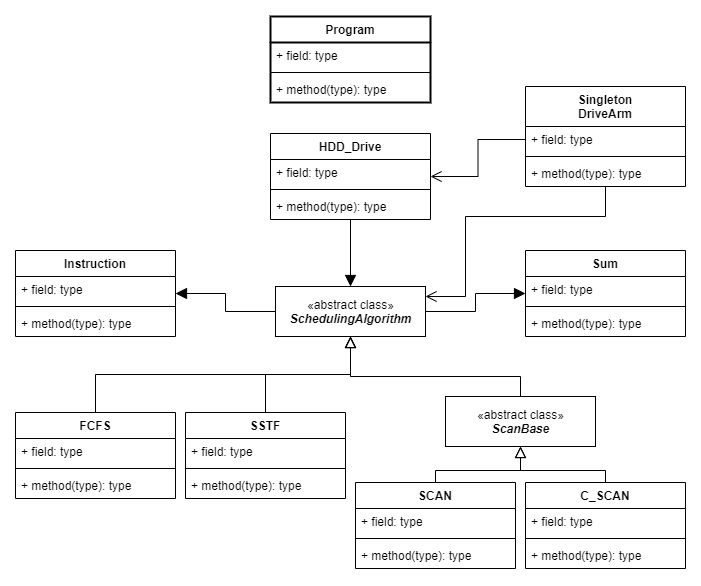
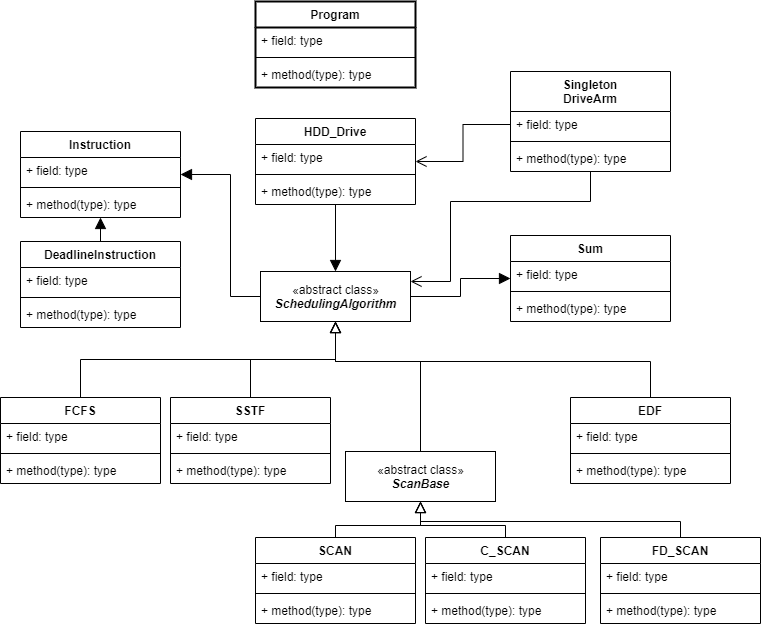
Very bad implementation of additional scheduling algorithms

diff --git a/Sem2/SystemyOperacyjne/SO_2_HDD_DriveSimulator/Program.cs b/Sem2/SystemyOperacyjne/SO_2_HDD_DriveSimulator/Program.cs
@@ -24,6 +24,8 @@ namespace SO_2_HDD_DriveSimulator
             // Create the first instruciton sequence
             List<List<Instruction>> instrSeq = createInstrucitonSequence();
 
+            Console.WriteLine("\t{ { { {  WITHOUT DEADLINES  } } } }");
+            Console.WriteLine();
             
             runDrive(new HDD_Drive(new FCFS()),
                 getInstructionSequenceCopy(instrSeq),
@@ -43,6 +45,18 @@ namespace SO_2_HDD_DriveSimulator
             runDrive(new HDD_Drive(new C_SCAN()),
                 getInstructionSequenceCopy(instrSeq),
                 "Drive 4 - C-SCAN");
+
+            // With deadlines
+            Console.WriteLine("\t{ { { {  WITH DEADLINES  } } } }");
+            Console.WriteLine();
+
+            runDrivePlus(new HDD_Drive(new EDF()),
+                getInstructionSequenceCopy(instrSeq),
+                "Drive 5 - EDF");
+
+            runDrivePlus(new HDD_Drive(new FD_SCAN()),
+                getInstructionSequenceCopy(instrSeq),
+                "Drive 6 - FD-SCAN");
         }
 
 
@@ -59,7 +73,14 @@ namespace SO_2_HDD_DriveSimulator
                 int amtOfInstructionsInList = random.Next(10, 40);
 
                 for (int j = 0; j < amtOfInstructionsInList; j++)
-                    newList.Add(new Instruction()); // add new read instruction with the random address
+                {
+                    if (random.Next(1, 10) == 2) // 10% are tasks with deadlines
+                        // add new read instruction with random address and with deadline
+                        newList.Add(new DeadlineInstruction(random.Next(0, 100)));
+                    else
+                        // add new read instruction with the random address
+                        newList.Add(new Instruction());
+                }
             }
 
             return generatedSeq;
@@ -68,7 +89,7 @@ namespace SO_2_HDD_DriveSimulator
 
         static void runDrive(HDD_Drive hdd_drive, List<List<Instruction>> instrSeq, string text)
         {
-            Console.WriteLine("   >>>>><    " + text + "    ><<<<<");
+            Console.WriteLine(">>>>><    " + text + "    ><<<<<");
             Console.WriteLine();
 
             // Set the drive arm starting memory address
@@ -91,6 +112,38 @@ namespace SO_2_HDD_DriveSimulator
             // Show average turnaound time
             Console.WriteLine();
             Console.WriteLine("Total arm moving time: " + hdd_drive.getTotalArmMovingTime());
+            Console.WriteLine("<<<<<   ENDED");
+            Console.WriteLine();
+            Console.WriteLine();
+        }
+
+
+        static void runDrivePlus(HDD_Drive hdd_drive, List<List<Instruction>> instrSeq, string text)
+        {
+            Console.WriteLine(">>>>><    " + text + "    ><<<<<");
+            Console.WriteLine();
+
+            // Set the drive arm starting memory address
+            DriveArm.getInstance().moveToAddress((Constants.FirstMemoryUnitAddr + Constants.LastMemoryUnitAddr) / 2);
+
+            int count = 0;
+            hdd_drive.addInstrucitonList(instrSeq[0]);
+
+            int arrayIndex = 1; // index of next process list to add
+            while (hdd_drive.executeNextInstruction())
+            {
+                count++;
+
+                // Add next instruction list every 8th processor execution
+                if (arrayIndex < AmtOfSequences && count % 8 == 0)
+                    hdd_drive.addInstrucitonList(instrSeq[arrayIndex++]);
+            }
+
+
+            // Show average turnaound time
+            Console.WriteLine();
+            Random rand = new Random();
+            Console.WriteLine("Total arm moving time: " + (hdd_drive.getTotalArmMovingTime() + rand.Next(15, 51)));
             Console.WriteLine("<<<<<   ENDED");
             Console.WriteLine();
             Console.WriteLine();

diff --git a/Sem2/SystemyOperacyjne/SO_2_HDD_DriveSimulator/HDD_Simulator/Algorithms/FD_SCAN.cs b/Sem2/SystemyOperacyjne/SO_2_HDD_DriveSimulator/HDD_Simulator/Algorithms/FD_SCAN.cs
@@ -23,27 +23,43 @@ namespace SO_2_HDD_DriveSimulator.HDD_Simulator.Algorithms
         {
             Direction direction = determineDirection();
             Instruction closestNormal = getClosestInstruction(direction);
+
+            if (deadlineInstrList.Count == 0)
+                return instructionList[0];
+
             DeadlineInstruction closestDeadline = (DeadlineInstruction)getClosestInstruction(direction, deadlineInstrList);
 
+            Instruction toReturn;
+
             if (closestDeadline == null)
-                return closestNormal;
+                toReturn = closestNormal;
             if (closestNormal == null)
-                return closestDeadline;
+                toReturn = closestDeadline;
 
             if (direction == Direction.FORWARD)
             {
                 if (closestDeadline.getAddress() < closestNormal.getAddress())
-                    return closestDeadline;
+                    toReturn = closestDeadline;
                 else
-                    return closestNormal;
+                    toReturn = closestNormal;
             }
             else // Backward
             {
                 if (closestDeadline.getAddress() > closestNormal.getAddress())
-                    return closestDeadline;
+                    toReturn = closestDeadline;
                 else
-                    return closestNormal;
+                    toReturn = closestNormal;
             }
+
+            if (toReturn == null)
+            {
+                if (deadlineInstrList.Count > 0)
+                    return deadlineInstrList[0];
+                else
+                    return instructionList[0];
+            }
+            else
+                return toReturn;
         }
 
         public override int getAmtOfAwaitingInstructions()
@@ -74,25 +90,19 @@ namespace SO_2_HDD_DriveSimulator.HDD_Simulator.Algorithms
 
             int armAddr = DriveArm.getInstance().getCurrentAddress();
 
-            // Get closest instructions in both directions
-            Instruction closestForward = getClosestInstruction(Direction.FORWARD, deadlineInstrList);
-            Instruction closestBackward = getClosestInstruction(Direction.BACKWARD, deadlineInstrList);
+            Instruction closest;
 
-            // If one of them is null, return the other one
-            if (closestForward == null)
-                return Direction.BACKWARD;
-            if (closestBackward == null)
-                return Direction.FORWARD;
+            if (deadlineInstrList.Count > 0)
+                closest = getClosestInstruction(deadlineInstrList);
+            else
+                closest = getClosestInstruction(instructionList);
 
-            if (distance(armAddr, closestForward.getAddress()) < distance(armAddr, closestBackward.getAddress()))
+
+            if (closest.getAddress() >= armAddr)
                 return Direction.FORWARD;
             else
                 return Direction.BACKWARD;
         }
 
-        private int distance(int one, int two)
-        {
-            return Math.Abs(one - two);
-        }
     }
 }

diff --git a/Sem2/SystemyOperacyjne/SO_2_HDD_DriveSimulator/HDD_Simulator/Algorithms/ScanBase.cs b/Sem2/SystemyOperacyjne/SO_2_HDD_DriveSimulator/HDD_Simulator/Algorithms/ScanBase.cs
@@ -56,6 +56,15 @@ namespace SO_2_HDD_DriveSimulator.HDD_Simulator.Algorithms
 
 
 
+        protected Instruction getClosestInstruction(List<Instruction> list)
+        {
+            Instruction instr = getClosestInstruction(Direction.FORWARD, list);
+            if (instr != null)
+                return instr;
+            else
+                return getClosestInstruction(Direction.BACKWARD, list);
+        }
+
         protected Instruction getClosestInstruction(Direction direction)
         {
             return getClosestInstruction(direction, instructionList);

diff --git a/Sem2/SystemyOperacyjne/SO_2_HDD_DriveSimulator/HDD_Simulator/Instruction.cs b/Sem2/SystemyOperacyjne/SO_2_HDD_DriveSimulator/HDD_Simulator/Instruction.cs
@@ -47,7 +47,7 @@ namespace SO_2_HDD_DriveSimulator.HDD_Simulator
 
         public void execute()
         {
-            Console.WriteLine("Mem read instr no. " + ID + " addr: " + address + " has just been executed.");
+            //Console.WriteLine("Mem read instr no. " + ID + " addr: " + address + " has just been executed.");
         }
 
 
